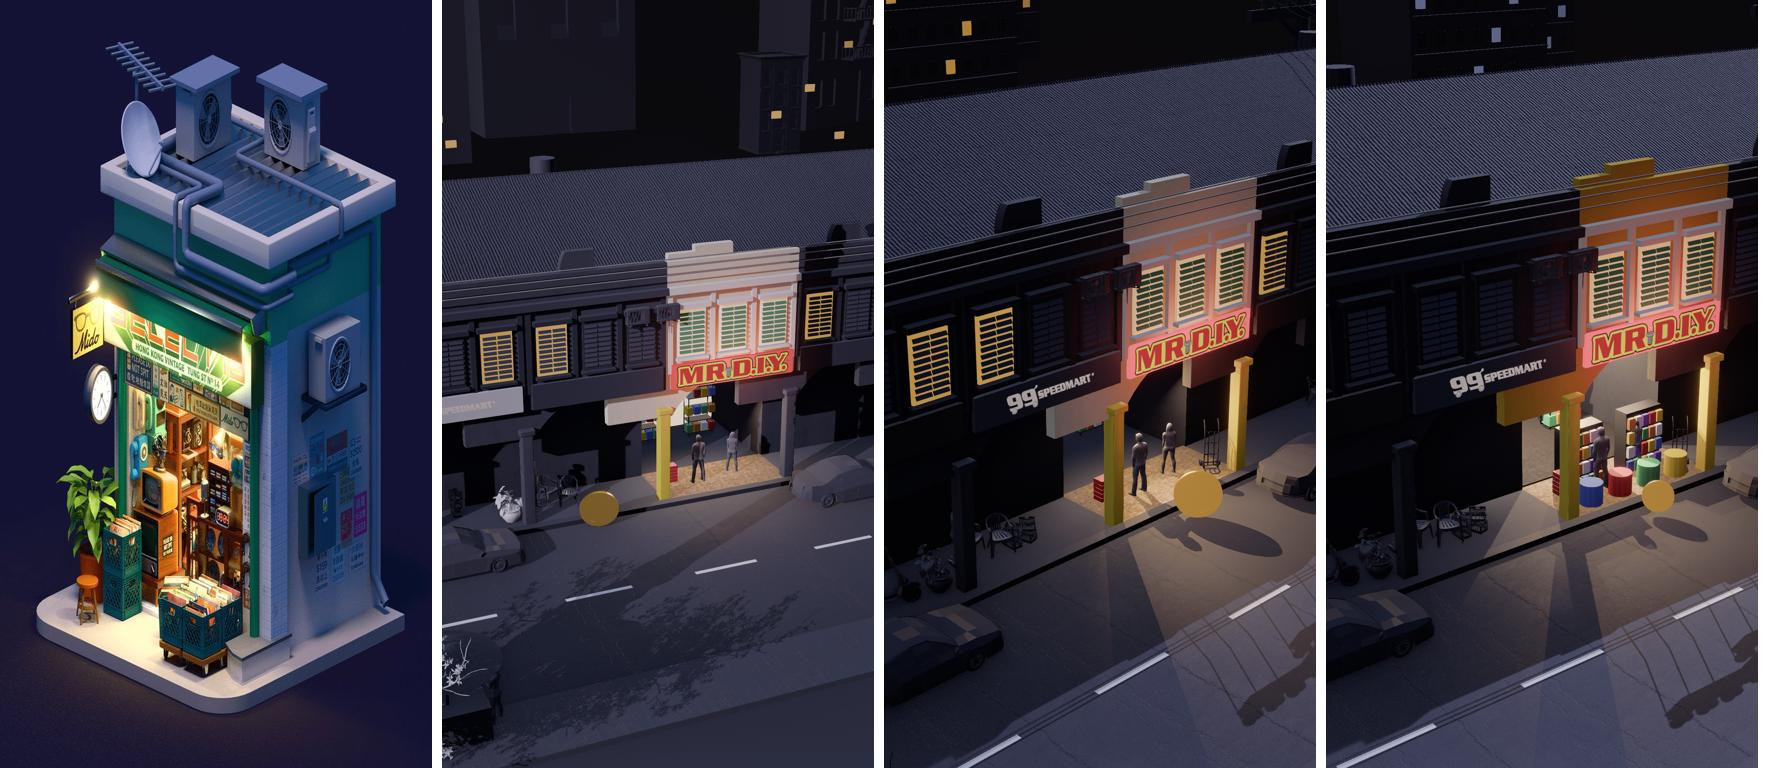
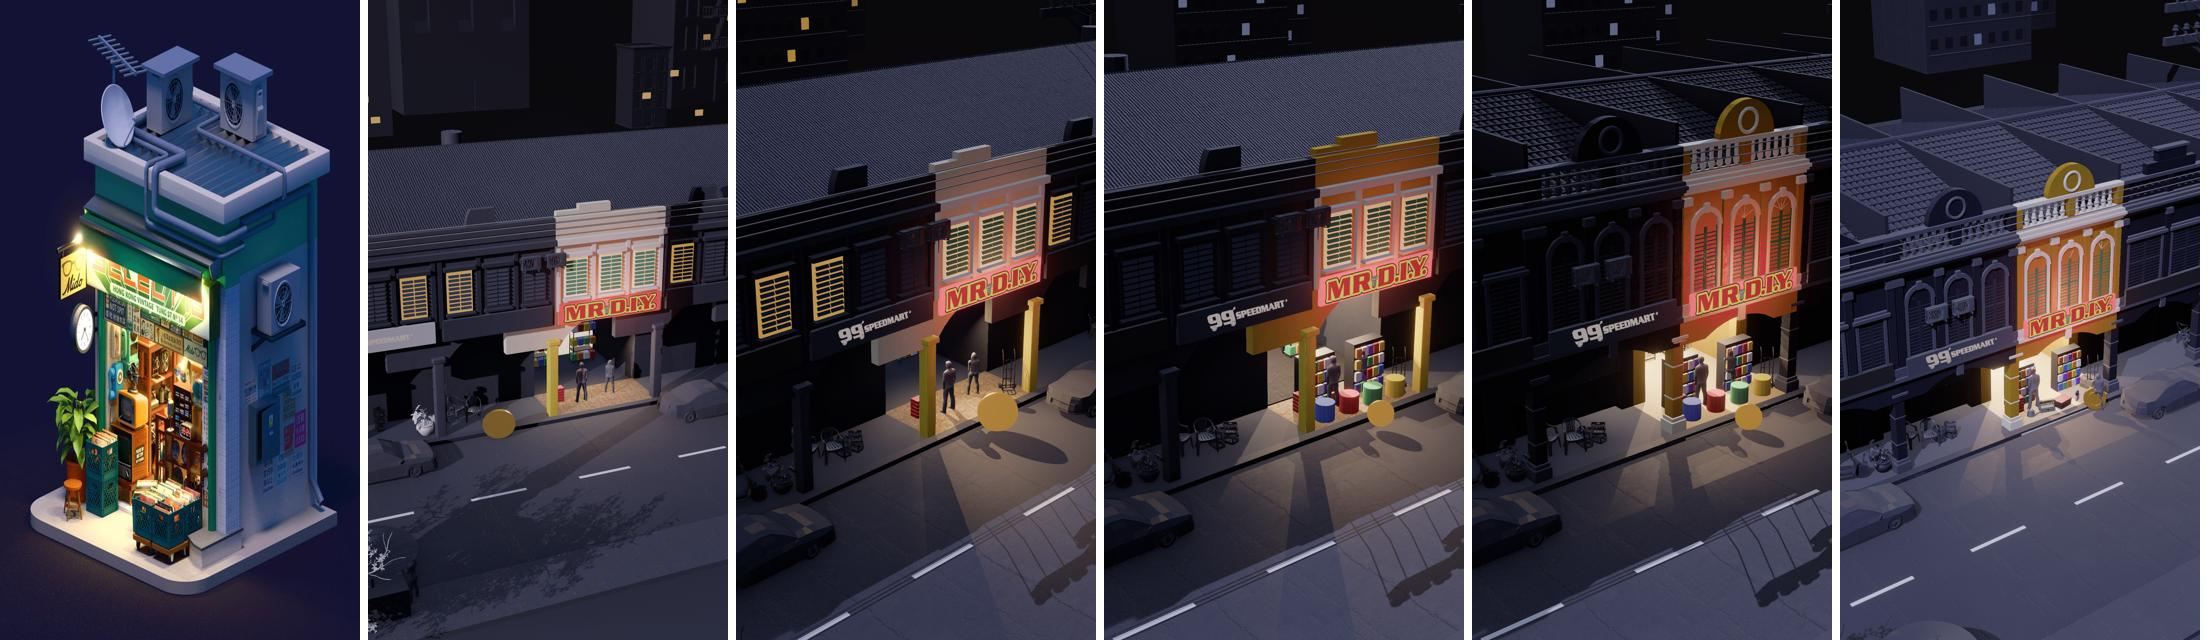
Style A loop rounds 4-5 (critic avg 5.0 / 4.75)

diff --git a/miki-explained/04_episodes/_tests/style-test-mrdiy/A2/street_dark.tsx b/miki-explained/04_episodes/_tests/style-test-mrdiy/A2/street_dark.tsx
@@ -27,7 +27,7 @@ const so = () => (SO ??= {
   cap: manifold.roundedBox(0.5, 0.18, 0.5, 0.03),
   gableRound: manifold.cylinder(1.1, 0.25).move(0, 0, -0.125).intersect(manifold.box(2.4, 1.2, 0.4).move(-1.2, 0, -0.2)),
   gableStep: manifold.union(manifold.box(2.2, 0.4, 0.25).move(-1.1, 0, -0.125), manifold.box(1.3, 0.8, 0.25).move(-0.65, 0, -0.125)),
-  coin: manifold.cylinder(0.4, 0.1).move(0, 0, -0.05).minus(manifold.cylinder(0.31, 0.04).move(0, 0, 0.03)).minus(manifold.cylinder(0.31, 0.04).move(0, 0, -0.07)).union(manifold.cylinder(0.18, 0.09).move(0, 0, -0.045)),
+  coin: manifold.cylinder(0.42, 0.13).move(0, 0, -0.065).minus(manifold.cylinder(0.34, 0.05).move(0, 0, 0.04)).minus(manifold.cylinder(0.34, 0.05).move(0, 0, -0.09)).union(manifold.cylinder(0.2, 0.11).move(0, 0, -0.055)).union(manifold.torus(0.27, 0.018).move(0, 0, 0.03)).union(manifold.torus(0.27, 0.018).move(0, 0, -0.03)),
   tank: manifold.cylinder(0.45, 1.1).rotate(-90, 0, 0),
   umbrella: manifold.cone(1.3, 0.02, 0.6).rotate(-90, 0, 0),
 });
@@ -52,10 +52,11 @@ const VAR = (i: number) => ["A", "B", "C", "B", "A", "C", "A", "B", "C", "A"][((
 function Unit({ i }: { i: number }) {
   const x0 = i * W, cx = x0 + W / 2, diy = i === DIY, spd = i === SPD;
   const src = diy ? "parts/shophouse_A_open.glb" : `parts/shophouse_${VAR(i)}.glb`;
+  const right = i === DIY + 1;
   const tint = ["#3b3d44", "#36383f", "#40414a", "#393b43"][((i % 4) + 4) % 4];
   const P: any[] = [];
   P.push(<Model key="sh" src={S(src)} position={[cx, 0, 0]}>
-    <StandardMaterial material="wall" base_color={diy ? "#e3a800" : tint} normal_map_texture={S("tex/grey_plaster_nor_gl_1k.jpg")} metallic_roughness_texture={S("tex/grey_plaster_rough_1k.jpg")} perceptual_roughness={1} uv_transform={Affine2.fromScale([0.6, 0.6])} />
+    <StandardMaterial material="wall" base_color={diy ? "#e3a800" : tint} normal_map_texture={S("tex/grey_plaster_nor_gl_1k.jpg")} metallic_roughness_texture={S("tex/grey_plaster_rough_1k.jpg")} perceptual_roughness={1} uv_transform={Affine2.fromScale([2.4, 2.4])} />
     <StandardMaterial material="trim" base_color={diy ? "#fff3cf" : "#4a4c54"} perceptual_roughness={0.75} />
     <StandardMaterial material="shutter" base_color={diy ? "#2f7a4a" : "#2c2e34"} perceptual_roughness={0.6} />
     <StandardMaterial material="tile" base_color={tint} normal_map_texture={S("tex/clay_roof_tiles_02_nor_gl_1k.jpg")} perceptual_roughness={0.85} />
@@ -76,7 +77,9 @@ function Unit({ i }: { i: number }) {
       P.push(<B key={`rk${rx}`} p={[rx, 0.95, 0.75]} s={[1.1, 1.6, 0.4]}><Flat c="#2a2c31" r={0.5} /></B>);
       for (let lv = 0; lv < 4; lv++) for (let j = 0; j < 5; j++) P.push(<B key={`rg${rx}${lv}${j}`} p={[rx - 0.44 + j * 0.22, 0.35 + lv * 0.38, 0.98]} s={[0.18, 0.28, 0.1]}><Flat c={GC[(lv * 3 + j + (rx > x0 + 2 ? 2 : 0)) % GC.length]} r={0.45} /></B>);
     }
-    for (let k = 0; k < 4; k++) P.push(<Mesh3d key={`bin${k}`} transform={Transform.fromXyz(x0 + 0.9 + k * 0.95, 0.43, 1.7)}><Cylinder radius={0.28} half_height={0.27} /><Flat c={["#2f6fd6", "#e3262b", "#3bb273", "#ffd400"][k]} r={0.5} /></Mesh3d>);
+    for (const [m, x, z, r, sc] of [["watering_can_metal_01", x0 + 1.0, 1.75, 0.4, 1.6], ["metal_toolbox", x0 + 1.7, 1.8, -0.3, 1.4], ["plastic_container", x0 + 2.4, 1.85, 0.2, 0.7], ["spray_paint_bottles", x0 + 3.1, 1.85, 0.6, 1.5], ["Drill_01", x0 + 3.8, 1.8, 1.2, 1.6], ["cardboard_box_01", x0 + 4.1, 1.3, 0.3, 1.2]] as [string, number, number, number, number][])
+      P.push(<Model key={`hw${m}`} src={S(`${m}/${m}.gltf`)} position={[x, 0.15, z]} rotation={[0, r, 0]} scale={[sc, sc, sc]} />);
+    for (let c = 0; c < 6; c++) P.push(<Model key={`pc${c}`} src={S("plastic_crate_01/plastic_crate_01.gltf")} position={[x0 + 4.0 - (c % 2) * 0.5, 0.15 + Math.floor(c / 2) * 0.29, 0.5]} rotation={[0, 0.1 * c, 0]}><StandardMaterial base_color={["#2f6fd6", "#e3262b", "#3bb273"][c % 3]} /></Model>);
     for (let b = 0; b < 5; b++) P.push(<B key={`bk${b}`} p={[x0 + 0.75, 0.21 + b * 0.12, 1.2]} s={[0.45, 0.11, 0.32]}><Flat c="#e3262b" r={0.45} /></B>);
   } else {
     P.push(<WhiteModel key="shut" src="parts/shutter.glb" p={[cx, spd ? 1.4 : 0.15, 0.02]} s={[(W - 0.9) / 1.08, 1.17, 0.5]} c={spd ? "#4e5058" : "#3e4047"} />);
@@ -116,7 +119,7 @@ function Street() {
     for (let r = 0; r < Math.floor(h / 2.6); r++) {
       P.push(<B key={`bal${bx}${r}`} p={[bx, 1.6 + r * 2.6, bz + 5.15]} s={[w - 0.4, 0.14, 0.4]}><Flat c={WHITE2} /></B>);
       for (let c = 0; c < Math.floor(w / 1.6); c++) { const lit = ((r * 7 + c * 3 + bx) % 5) === 0;
-        P.push(<B key={`cw${bx}${r}${c}`} p={[bx - w / 2 + 0.9 + c * 1.6, 2.6 + r * 2.6, bz + 5.02]} s={[0.8, 1.0, 0.05]}><Flat c={lit ? "#9fb7e8" : "#20222a"} e={lit ? glow("#8fb0ff", 0.5) : undefined} /></B>); }
+        P.push(<B key={`cw${bx}${r}${c}`} p={[bx - w / 2 + 0.9 + c * 1.6, 2.6 + r * 2.6, bz + 5.02]} s={[0.8, 1.0, 0.05]}><Flat c={lit ? "#6f82aa" : "#20222a"} e={lit ? glow("#8fb0ff", 0.18) : undefined} /></B>); }
     }
   }
   for (let k = 0; k < 0; k++) {
@@ -128,28 +131,29 @@ function Street() {
   P.push(<WhiteModel key="ht2" src="hand_truck/hand_truck.gltf" p={[4.2, 0.12, 1.4]} r={-0.6} />);
   P.push(<Model key="vs" src={S("parts/vespa.glb")} position={[-6.5, 0.12, 1.4]} rotation={[0, 1.2, 0]}><StandardMaterial base_color={WHITE2} /></Model>);
   // people hold poses (house rule): MPFB figures, faceless, charcoal clay
-  for (const [src, x, z, r] of [["s_m30", 1.6, 1.3, Math.PI], ["s_f25", 3.0, 1.0, 2.6], ["s_m50", -9.0, AR + 9.0, 0.3], ["s_f35", -8.3, AR + 9.4, -2.4], ["s_m30", -4.2, 1.1, 0.9], ["s_f25", 10.8, AR + 9.6, -0.4]] as [string, number, number, number][])
+  for (const [src, x, z, r] of [["s_m30", 1.4, 1.4, Math.PI], ["s_f25", 3.3, 2.8, 2.2], ["s_m50", -9.0, AR + 9.0, 0.3], ["s_f35", -8.3, AR + 9.4, -2.4], ["s_m30", -4.2, 1.1, 0.9], ["s_f25", 10.8, AR + 9.6, -0.4]] as [string, number, number, number][])
     P.push(<Model key={`pp${src}${x}`} src={S(`people/${src}.glb`)} position={[x, 0.12, z]} rotation={[0, r, 0]}><StandardMaterial base_color="#55585f" perceptual_roughness={0.7} /></Model>);
   return <>{P}</>;
 }
 
 function Shot() {
   const f = useCurrentFrame();
-  const coinX = DIY * W + W / 2 - 0.4, coinZ = AR + 0.9;
+  const coinX = DIY * W + W / 2 + 0.9, coinZ = AR + 0.55;
   return (
     <AbsoluteFill style={{ background: "#15171c" }}>
-      <Camera3d transform={Transform.fromXyz(-17, 14, 23).lookingAt([0.4, 3.0, 0.4])} projection={{ Perspective: { fov: 0.6 } }}>
-        <DepthOfField focal_distance={30} aperture_f_stops={9} />
+      <Camera3d transform={Transform.fromXyz(-18, 19, 27).lookingAt([1.2, 3.6, 0.8])} projection={{ Perspective: { fov: 0.62 } }}>
+        <DepthOfField focal_distance={38} aperture_f_stops={10} />
       </Camera3d>
       <Environment src={S("sky.hdr")} intensity={0.25} rotation={2.6} />
-      <AmbientLight brightness={22} color="#9fb4ff" />
+      <AmbientLight brightness={26} color="#93a9e8" />
+      <DirectionalLight color="#c4d4ff" transform={Transform.fromXyz(24, 10, -10).lookingAt([0, 3, 2])} illuminance={1600} />
       {/* low dusk sun from the west: long shadows of every pillar, car and tree across the white street */}
-      <DirectionalLight color="#a9c0ff" transform={Transform.fromXyz(26, 16, -6).lookingAt([0, 0, 2])} illuminance={3800} shadow_maps_enabled soft_shadow_size={0.5} />
+      <DirectionalLight color="#9fb8ff" transform={Transform.fromXyz(-18, 22, 14).lookingAt([0, 0, 0])} illuminance={3400} shadow_maps_enabled soft_shadow_size={0.5} />
       <Shadows distance={70} firstCascade={25} mapSize={4096} bias={0.04} normalBias={1.5} />
       {/* Mr DIY's own light spills onto its five-foot way and the kerb */}
       <RectLight transform={Transform.fromXyz(DIY * W + W / 2, 2.6, 0.2).lookingAt([DIY * W + W / 2, 0, AR + 1])} intensity={140000} width={W - 0.8} height={2.4} color="#ffe2b8" range={16} />
       <PointLight transform={Transform.fromXyz(DIY * W + W / 2, 4.45, AR + 1.6)} intensity={160000} color="#ff7a5a" range={6} />
-      <PointLight transform={Transform.fromXyz(DIY * W + W / 2, 3.4, -1.8)} intensity={1500000} color="#ffe2b8" range={10} shadow_maps_enabled />
+      <PointLight transform={Transform.fromXyz(DIY * W + W / 2, 3.4, -1.8)} intensity={2400000} color="#ffe2b8" range={10} shadow_maps_enabled />
       <PointLight transform={Transform.fromXyz(DIY * W + 1.0, 2.2, -3.2)} intensity={700000} color="#fff1dc" range={6} />
       <SpotLight transform={Transform.fromXyz(DIY * W + W / 2, 3.2, -1.0).lookingAt([DIY * W + W / 2, 0, AR + 5])} intensity={3000000} outer_angle={0.95} inner_angle={0.05} color="#ffd29a" range={22} shadow_maps_enabled />
       <Fog color="#15171c" near={50} far={150} />
@@ -159,8 +163,8 @@ function Shot() {
       <Grade temperature={0.02} vignette={0.22} midtones={{ saturation: 1.05, contrast: 1.18, gamma: 1, gain: 1, lift: 0 }} />
       <Street />
       {UNITS.map((i) => <Unit key={i} i={i} />)}
-      <Mesh3d name="coin" transform={Transform.fromXyz(coinX, 0.41, coinZ).withRotation(Quat.fromEuler("YXZ", -0.75, -0.1, 0))} shape={so().coin}>
-        <StandardMaterial base_color="#d9a63a" metallic={1} perceptual_roughness={0.25} emissive={glow("#ffb347", 0.6)} /></Mesh3d>
+      <Mesh3d name="coin" transform={Transform.fromXyz(coinX, 0.57, coinZ).withRotation(Quat.fromEuler("YXZ", -0.6, -0.12, 0))} shape={so().coin}>
+        <StandardMaterial base_color="#e3b04a" metallic={1} perceptual_roughness={0.22} emissive={glow("#ffb347", 0.25)} /></Mesh3d>
     </AbsoluteFill>
   );
 }

diff --git a/miki-explained/04_episodes/_tests/style-test-mrdiy/A2/critic/scores.md b/miki-explained/04_episodes/_tests/style-test-mrdiy/A2/critic/scores.md
@@ -5,3 +5,5 @@
 | r2 | 4 | 4 | 3 | 5 | 4 | 5 | 4 | 4 | 4.1 |
 | r3 | 5 | 4 | 4 | 5 | 4 | 6 | 4 | 4 | 4.5 |
 Target: every score ≥ 7.
+| r4 (modelled shophouses) | 6 | 4 | 4 | 6 | 5 | 5 | 5 | 5 | 5.0 |
+| r5 (wider, moonlight) | 5 | 4 | 4 | 5 | 5 | 5 | 5 | 5 | 4.75 |
